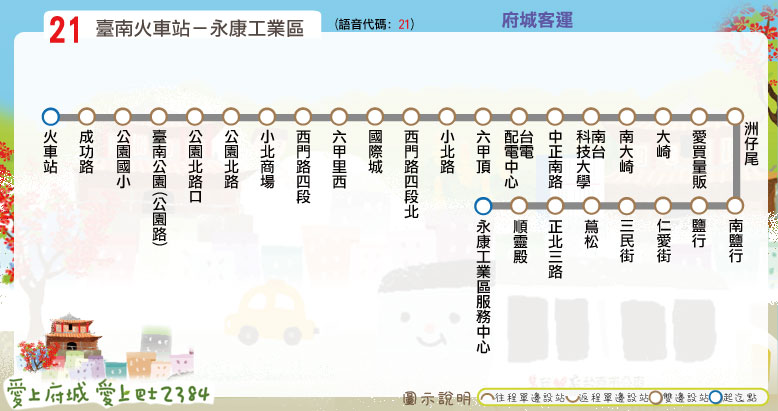
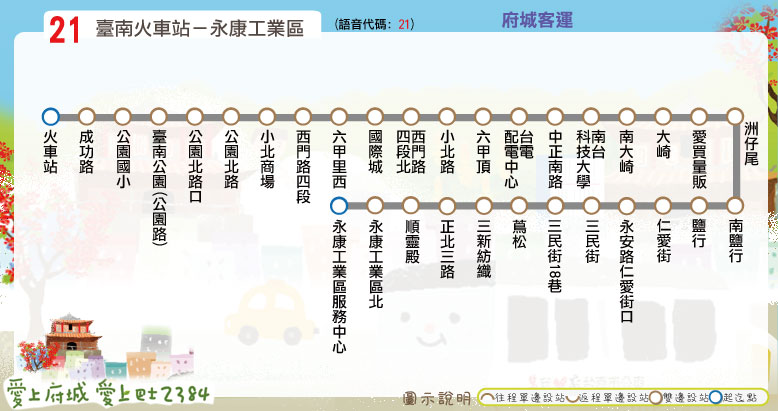
finished the time schedule of city bus No.21

Changed region(s): [[0.401, 0.3212, 0.8329, 0.8759]]

diff --git a/city_bus/city_bus_21.html b/city_bus/city_bus_21.html
@@ -1,0 +1,181 @@
+<!DOCTYPE html PUBLIC "-//W3C//DTD XHTML 1.0 Strict//EN" "http://www.w3.org/TR/xhtml1/DTD/xhtml1-strict.dtd">
+<html xmlns="http://www.w3.org/1999/xhtml">
+<head>
+<meta http-equiv="Content-Type" content="text/html; charset=utf-8" />
+<title>台南市公車 ─ 21路 路線資訊</title>
+<meta name="keywords" content="" />
+<meta name="description" content="" />
+<style type="text/css">
+@import url("../css/table_style.css");
+@import url("../css/default.css");
+</style>
+<script language="javascript" src="../route/msg.js"></script>
+<script language="javascript" src="../route/fare_and_time/city_bus_21.js"></script>
+<script language="javascript" src="../route/fare_and_time/show_fare_tool.js"></script>
+</head>
+<body>
+<div id="header-wrapper">
+	<div id="header" class="container">
+		<div id="logo">
+			<h1><a href="../index.html">Tainan Bus for FUN</a></h1>
+			<p align="center">
+			<a href="index.html"><img src="../img/city_bus_logo.png"></a>
+			</p>
+		</div>
+		<div id="menu">
+			<ul>
+				<li class="current_page_item"><a href="#route" accesskey="1" title="">路線圖</a></li>
+				<li><a href="#info" accesskey="2" title="">路線資訊</a></li>
+				<li><a href="#fare" accesskey="3" title="">票價表</a></li>
+				<li><a href="#time" accesskey="4" title="">時刻表</a></li>
+				<li><a href="#transfer" accesskey="5" title="">轉乘資訊</a></li>
+			</ul>
+		</div>
+	</div>
+</div>
+<div id="wrapper1">
+	<a name="route"></a>
+	<div id="banner">&nbsp;</div>
+	<div id="route">
+		<div class="title">
+			<h2>大台南公車 ─ 21路 路線圖</h2>
+			<span class="byline">Tainan City Bus No.21, Route Map</span>
+		</div>
+		<img src="../route/city_bus/21.jpg">
+		<p></p>
+
+		<!--<iframe src="https://mapsengine.google.com/map/embed?mid=zT0XIOZRtlhg.k7U0sQhq2PSo" width="800" height="500"></iframe>-->
+	</div>
+</div>
+<div id="wrapper2">
+	<a name="info"></a>
+	<div id="routeinfo" class="container">
+		<div class="title">
+			<h2>台南市公車 ─ 21路　路線資訊</h2>
+			<span class="byline">Tainan City Bus No.21, Route Information</span> </div>
+		<div class="content">
+			<table border="0">
+				<tr>
+					<td>起訖點</td>
+					<td>臺南火車站 － 永康工業區</td>
+				</tr>
+				<tr>
+					<td>營運公司</td>
+					<td>府城客運</td>
+				</tr>
+				<tr>
+					<td>首／末班車發車時刻</td>
+					<td>往 永康工業區：06:00／22:00<br />往 臺南火車站：06:00／22:00</td>
+				</tr>
+				<tr>
+					<td>班距</td>
+					<td>固定班次 尖20離30</td>
+				</tr>
+				<tr>
+					<td>收費方式</td>
+					<td>一段票</td>
+				</tr>
+			</table>
+			<p>　</p>
+			<a href="http://2384.tainan.gov.tw:8080/AGPSRemoteQuery3/ajaxBus.jsp?pathId=10021&locale=zh_TW" class="button">公車動態資訊</a> </div>
+	</div>
+</div>
+<div id="wrapper3">
+	<a name="fare"></a>
+	<div id="faretable" class="container">
+		<div class="title">
+			<h2>票價表</h2>
+			<span class="byline">Ticket Fare</span> </div>
+		<div class="content">
+			<h1>全路線一段票</h1>
+			<br/>
+			<table>
+				<tr>
+					<th></th>
+					<th>全票</th>
+					<th>半票</th>
+				</tr>
+				<tr>
+					<td><b>投現</b></td>
+					<td>18</td>
+					<td>9</td>
+				</tr>
+				<tr>
+					<td><b>電子票證</b></td>
+					<td>18</td>
+					<td>9</td>
+				</tr>
+			</table>
+			<p>　</p>
+			<script language="javascript">
+				document.write(CitybusMSG + PromotionMSG);
+			</script>
+			<p>　</p>
+		</div>
+	</div>
+</div>
+<div id="timetable">
+	<a name="time"></a>
+	<div class="title">
+		<h2>時刻表</h2>
+		<span class="byline">Bus schedule</span>
+	</div>
+	<div class="content">
+		<script language="javascript">
+			document.write('<h2>臺南火車站-&gt;永康工業區</h2>');
+			create_time_schedule(city_bus_21_main_stop_name, city_bus_21_main_stop_time_consume, city_bus_21_important_stop, city_bus_21_time_go, false);
+			document.write('<p>　</p>');
+			document.write('<h2>永康工業區-&gt;臺南火車站</h2>');
+			create_time_schedule(city_bus_21_main_stop_name, city_bus_21_main_stop_time_consume, city_bus_21_important_stop, city_bus_21_time_return, true);
+			document.write('<p>　</p>');
+			document.write(TimeScheduleMSG);
+		</script>
+	</div>
+</div>
+<div id="wrapper4">
+	<a name="transfer"></a>
+	<div id="transfer" class="container">
+		<div class="title">
+			<h2>台南市公車 － 21路 主要轉乘點資訊</h2>
+			<span class="byline">Tainan city bus NO.21, Transfer information</span>
+		</div>
+		<div class="content">
+			<table>
+				<tr>
+					<th rowspan="7">台南火車站</th>
+					<td style="text-align: center"><img src="../route/transfer/railway.png"></td>
+					<td>台鐵台南站</td>
+				</tr>
+				<tr>
+					<td style="text-align: center"><img src="../route/transfer/taiwantrip_logo.png"></td>
+					<td>88、99</td>
+				</tr>
+				<tr>
+					<td style="text-align: center"><img src="../route/transfer/city_bus_transfer_logo.png"></td>
+					<td>市區公車(除15、20路)</td>
+				</tr>
+				<tr>
+					<td style="text-align: center"><img src="../route/transfer/green_transfer_logo.png"></td>
+					<td>綠幹線</td>
+				</tr>
+				<tr>
+					<td style="text-align: center"><img src="../route/transfer/blue_transfer_logo.png"></td>
+					<td>藍幹線</td>
+				</tr>
+				<tr>
+					<td style="text-align: center"><img src="../route/transfer/red_transfer_logo.png"></td>
+					<td>紅幹線、紅1、紅2、紅3、紅4</td>
+				</tr>
+				<tr>
+					<td style="text-align: center"><img src="../route/transfer/orange_transfer_logo.png"></td>
+					<td>橘3、橘12</td>
+				</tr>
+			</table>
+		</div>
+	</div>
+</div>
+<div id="copyright">
+	<script type="text/javascript">document.write(copyrightMSG);</script>
+</div>
+</body>
+</html>

diff --git a/route/fare_and_time/city_bus_21.js b/route/fare_and_time/city_bus_21.js
@@ -1,0 +1,16 @@
+// format = [time at the start stop] or
+// [time, other] or
+// [time, start_stop, end_stop, other]
+city_bus_21_main_stop_name = ["臺南<br />火車站","臺南公園<br />(公園路)","西門路<br />四段","六甲頂","南台<br />科技大學","鹽行","仁愛街","蔦松","永康工業區<br />服務中心"];
+city_bus_21_main_stop_time_consume = [0, 5, 9, 15, 18, 27, 30, 35, 40];
+city_bus_21_important_stop = [0, 5, 8]; // 臺南火車站, 鹽行, 永康工業區
+city_bus_21_time_go = [["06:00"],["06:20"],["06:35"],["07:00"],["07:30"],["07:55"],["08:15"],["08:30"],["08:50"],["09:20"],
+["09:55"],["10:30"],["11:00"],["11:30"],["12:00"],["12:25"],["13:00"],["13:35"],["14:00"],["14:30"],["15:05"],["15:35"],
+["16:00"],["16:30"],["17:00"],["17:25"],["17:50"],["18:10"],["18:35"],["19:05"],["19:30"],["20:00"],["20:35"],["21:00"],
+["21:30"],["22:00"]
+];
+city_bus_21_time_return = [["06:00"],["06:20"],["06:40"],["07:00"],["07:20"],["07:40"],["08:00"],["08:30"],["09:00"],
+["09:30"],["10:00"],["10:30"],["11:00"],["11:30"],["12:00"],["12:30"],["13:00"],["13:30"],["14:00"],["14:30"],["15:00"],
+["15:30"],["16:00"],["16:20"],["16:45"],["17:10"],["17:40"],["18:15"],["18:40"],["19:10"],["19:30"],["20:00"],["20:30"],
+["21:00"],["21:30"],["22:00"]
+];

diff --git a/route/fare_and_time/city_bus_20.js b/route/fare_and_time/city_bus_20.js
@@ -1,9 +1,9 @@
 // format = [time at the start stop] or
 // [time, other] or
 // [time, start_stop, end_stop, other]
-city_bus_20_main_stop_name = ["崑山科大","永大夜市","永康<br />火車站","台南應用<br />科技大學","台灣歷史<br />博物館","安南醫院","塭南里"];
+city_bus_20_main_stop_name = ["崑山科大","永大夜市","永康<br />火車站","台南應用<br />科技大學","臺灣歷史<br />博物館","安南醫院","塭南里"];
 city_bus_20_main_stop_time_consume = [0, 7, 15, 25, 36, 40, 46];
-city_bus_20_important_stop = [0, 2, 4]; // 崑山科大, 永康火車站, 台灣歷史博物館
+city_bus_20_important_stop = [0, 2, 4]; // 崑山科大, 永康火車站, 臺灣歷史博物館
 city_bus_20_time_go = [["6:00"],["6:20"],["6:40"],["7:00"],["7:20"],["7:40"],["8:00"],["8:30"],
 ["9:00"],["9:30"],["10:00"],["10:30"],["11:00"],["11:30"],["12:00"],["12:30"],["13:00"],["13:30"],
 ["14:00"],["14:30"],["15:00"],["15:30"],["16:00"],["16:30"],["16:50"],["17:20"],["17:40"],["18:00"],
